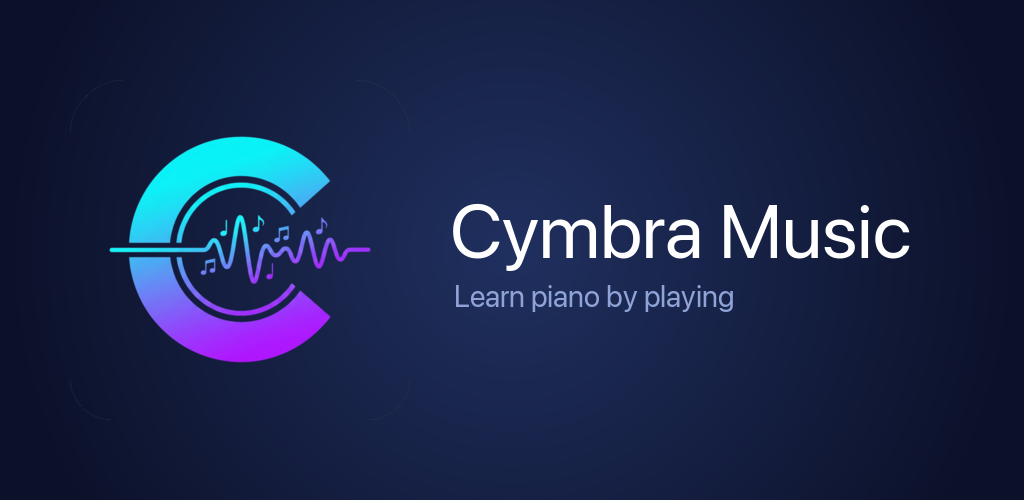
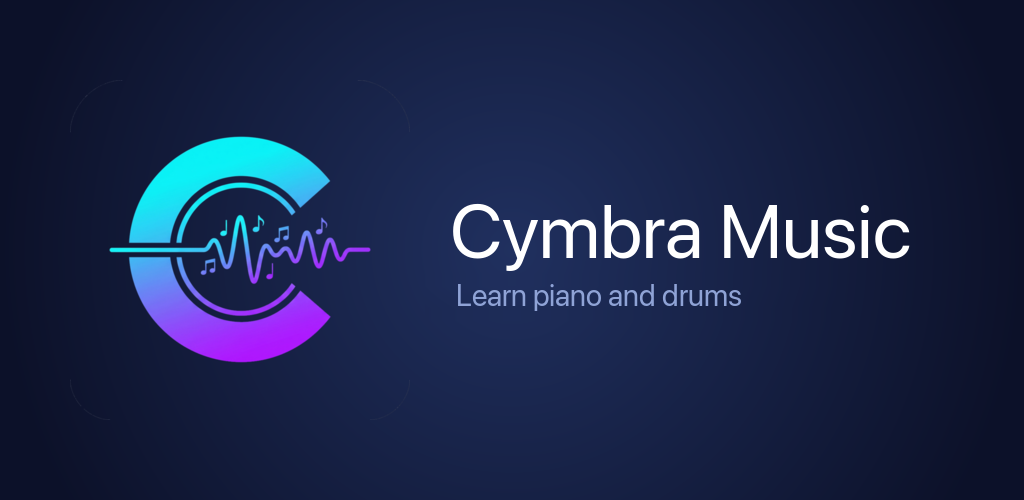
feat(music): re-render the Play feature graphic for the drums
The graphic carried "Learn piano by playing" as pixels — the last listing
asset still promising piano alone, and the only one that could not be fixed
from copy/. Every text field now names the drums; the image that sits at the
top of the Play listing said otherwise.

Rebuilt the tagline band by interpolating between the clean rows above and
below it rather than copying a strip from elsewhere: the background is a
radial glow, so a copied strip lands at the wrong brightness and leaves a
visible rectangle. The line is redrawn in SF Pro 30px #8FA3D6 at the original
left edge, left-aligned with the title as before.

Exported as opaque 8-bit PNG24 (magick's default output was 16-bit), 115 KB,
1024x500. The store asset check still passes on all 112 files.

Changed region(s): [[0.4375, 0.57, 0.7188, 0.63]]

diff --git a/apps/music/store/README.md b/apps/music/store/README.md
@@ -123,8 +123,15 @@ surface count is the only real lever.
   `Info.plist`, and App Store Connect flags a mismatch between the two.
 - Google Play: **Education**.
 
-⚠ The feature graphic still reads "Learn piano by playing" — baked into the
-PNG, and now **wrong**: drums ship to everyone, and every text field says so.
-It is the one listing asset that cannot be fixed by editing `copy/`; it needs a
-re-render before the Play listing goes out. Adjust it per final marketing and
-per-locale listings too (the app ships en/fr/it/es).
+The feature graphic tagline now reads "Learn piano and drums", matching the
+subtitle. It is the one listing asset whose text lives in **pixels**, so it has
+to be re-rendered whenever the positioning changes — and it is easy to forget,
+which is exactly how it kept saying "Learn piano by playing" after drums went
+global. It is also **English-only**: Play serves the same graphic to every
+locale, so it is a marketing artefact, not a translated string.
+
+Re-rendered by rebuilding the tagline band from the clean rows above and below
+it (linear interpolation preserves the radial glow; a copied strip from
+elsewhere leaves a visible seam), then re-drawing the line in SF Pro 30px
+`#8FA3D6` at the original left edge — the tagline is left-aligned with the
+title, not centred under it.
